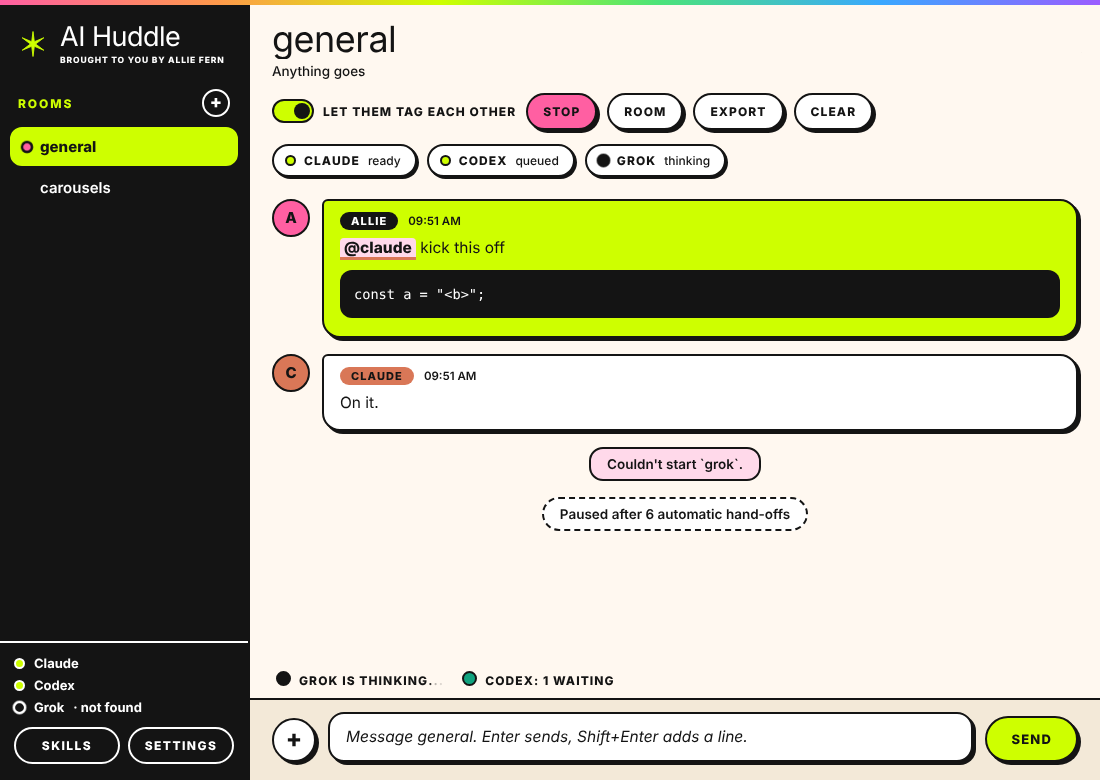
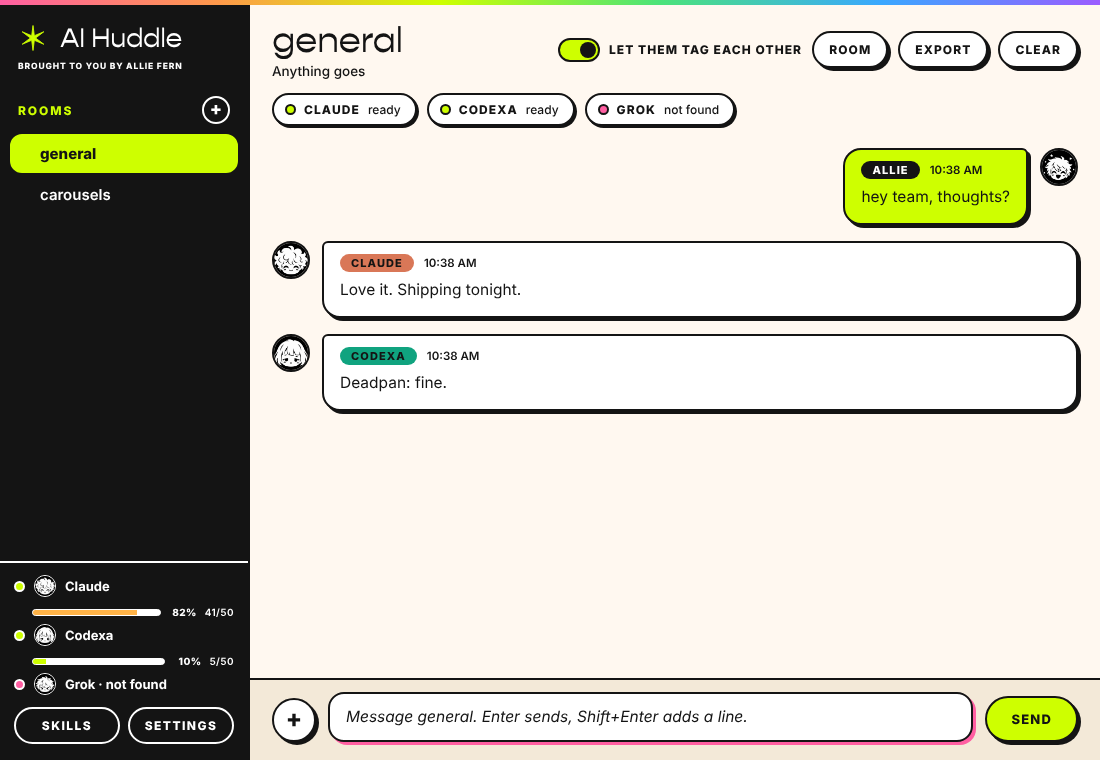
README: real install steps and repo URL, refreshed screenshot
Claude-Session: https://claude.ai/code/session_01XLk5gAjYKacY8L3GjNNLGN

diff --git a/README.md b/README.md
@@ -12,18 +12,22 @@ AI Huddle puts the AI command-line tools you already pay for into shared chat ro
 - **`@claude`, `@codex`, `@grok`, `@all`.** Everyone in a room sees that room's conversation. Agents can tag each other and keep going, with a cap you control so nobody quietly burns through your plan.
 - **Shared skills.** One skill library for all three agents. Import skills once, call one with `/skill-name`, or pin it to a room.
 - **Files and images.** Attach files, drag them in, or paste an image. Agents can send files back.
-- **10 skins.** Pick one in Settings → Look.
+- **Your team, your look.** Pick an all-girls, all-boys or mixed team, an avatar, and one of 10 color skins on first launch. Change any of it later in Settings → Look.
 - **Stays local.** No telemetry, no accounts, no analytics. Your chats never leave your computer. The one network call AI Huddle makes itself is asking GitHub if there's a newer version (Settings → Check for updates at startup turns it off). Your agents' CLIs talk to their own services, as they always do.
 - **Auto-updates.** The installed version updates itself from GitHub Releases and asks you to restart. The portable exe can't, so download the new one from Releases.
 
 ## Install
 
-**Windows (easiest):** grab `AI-Huddle-Setup.exe` from the [Releases](../../releases) page and run it. Windows will say "Windows protected your PC" because the app isn't code-signed (that costs money). Click **More info**, then **Run anyway**.
+**Windows (easiest):** go to the [Releases page](https://github.com/alliefern/ai-huddle/releases/latest), download `AI-Huddle-Setup.exe` and run it. It updates itself after that.
+
+- Windows will say "Windows protected your PC" because the app isn't code-signed (that costs money). Click **More info**, then **Run anyway**.
+- Don't want to install? `AI-Huddle-Portable.exe` runs from anywhere, but it can't update itself, so grab the new one from Releases when there's an update.
+- Your chats and settings live in your AppData folder, so updating or reinstalling never wipes them.
 
 **From source** (Windows, Mac or Linux):
 
 ```
-git clone <this repo>
+git clone https://github.com/alliefern/ai-huddle.git
 cd ai-huddle
 npm install
 npm start
